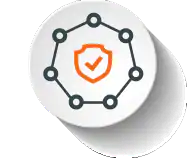
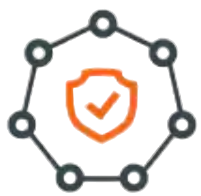
up

diff --git a/Check_Point.html b/Check_Point.html
@@ -192,23 +192,26 @@
                         <div class="box alt">
 							<div class="row gtr-uniform">
 								<section class="col-4 col-6-medium col-12-xsmall">
-									<span class="icon solid alt major fa-toolbox" style="margin-left: 60px;"></span>
                                     <center>
+									<img src="images/icon-UncompromisingSecurity_1.png" alt="" class="custom-icon" />
+                                    
 									<h3>Uncompromising Security</h3>
                                     
 									<p>Delivers the highest-caliber threat prevention with award winning SandBlast Zero Day protection out of the box </p>
                                     </center>
 								</section>
 								<section class="col-4 col-6-medium col-12-xsmall">
-									<span class="icon solid alt major fa-cogs" style="margin-left: 60px;"></span>
                                     <center>
+									<img src="images/icon-SecurityatHyperscale_1.png" alt="" class="custom-icon" />
+                                    
 									<h3>Security at Hyperscale</h3>
 									<p>On-demand hyperscale threat prevention performance providing enterprises cloud level expansion and resiliency on premises</p>
                                     </center>
 								</section>
 								<section class="col-4 col-6-medium col-12-xsmall">
-									<span class="icon solid alt major fa-users"style="margin-left: 60px;"></span>
                                     <center>
+									<img src="images/icon-UnifiedSecurity_1.png" alt="" class="custom-icon" />
+                                    
 									<h3>Unified Security</h3>
 									<p>R81 unified security management control across networks, clouds, and IoT increases efficiency cutting security operations up to 80%</p>
                                     </center>

diff --git a/testhtml.html b/testhtml.html
@@ -3,17 +3,11 @@
 <head>
     <meta charset="UTF-8">
     <meta name="viewport" content="width=device-width, initial-scale=1.0">
-    <title>แทนที่ไอคอนด้วยรูปภาพ</title>
-    <style>
-        .icon {
-            width: 50px;
-            height: 50px;
-            background-image: url('path/to/icon.svg');
-            background-size: cover;
-        }
-    </style>
+    <title>ใช้ไอคอน Font Awesome</title>
+    <link rel="stylesheet" href="https://cdnjs.cloudflare.com/ajax/libs/font-awesome/6.0.0-beta3/css/all.min.css">
 </head>
 <body>
-    <img src="path/to/icon.svg" alt="Shield with Checkmark Icon">
+    <!-- ไอคอนโล่ที่มีโลกครอบ -->
+    <i class="fas fa-shield-alt"></i>
 </body>
 </html>
